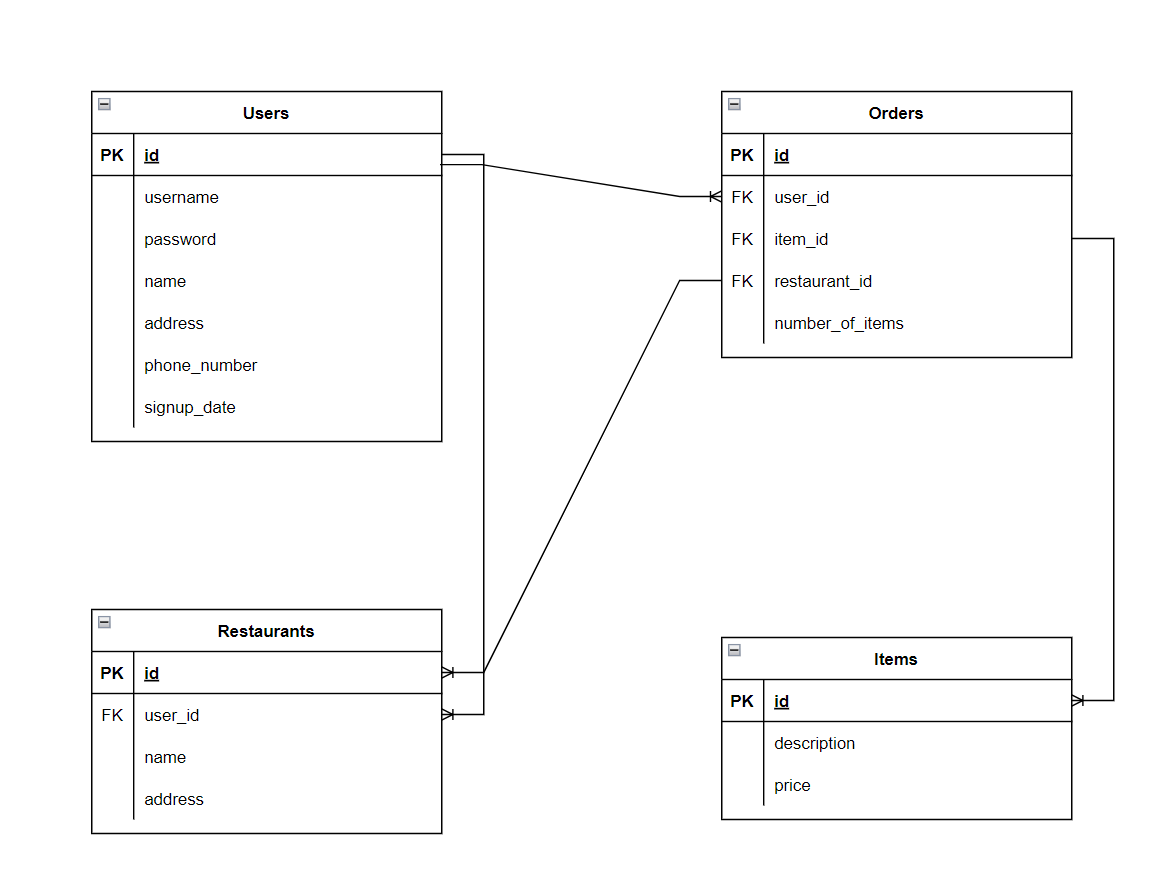
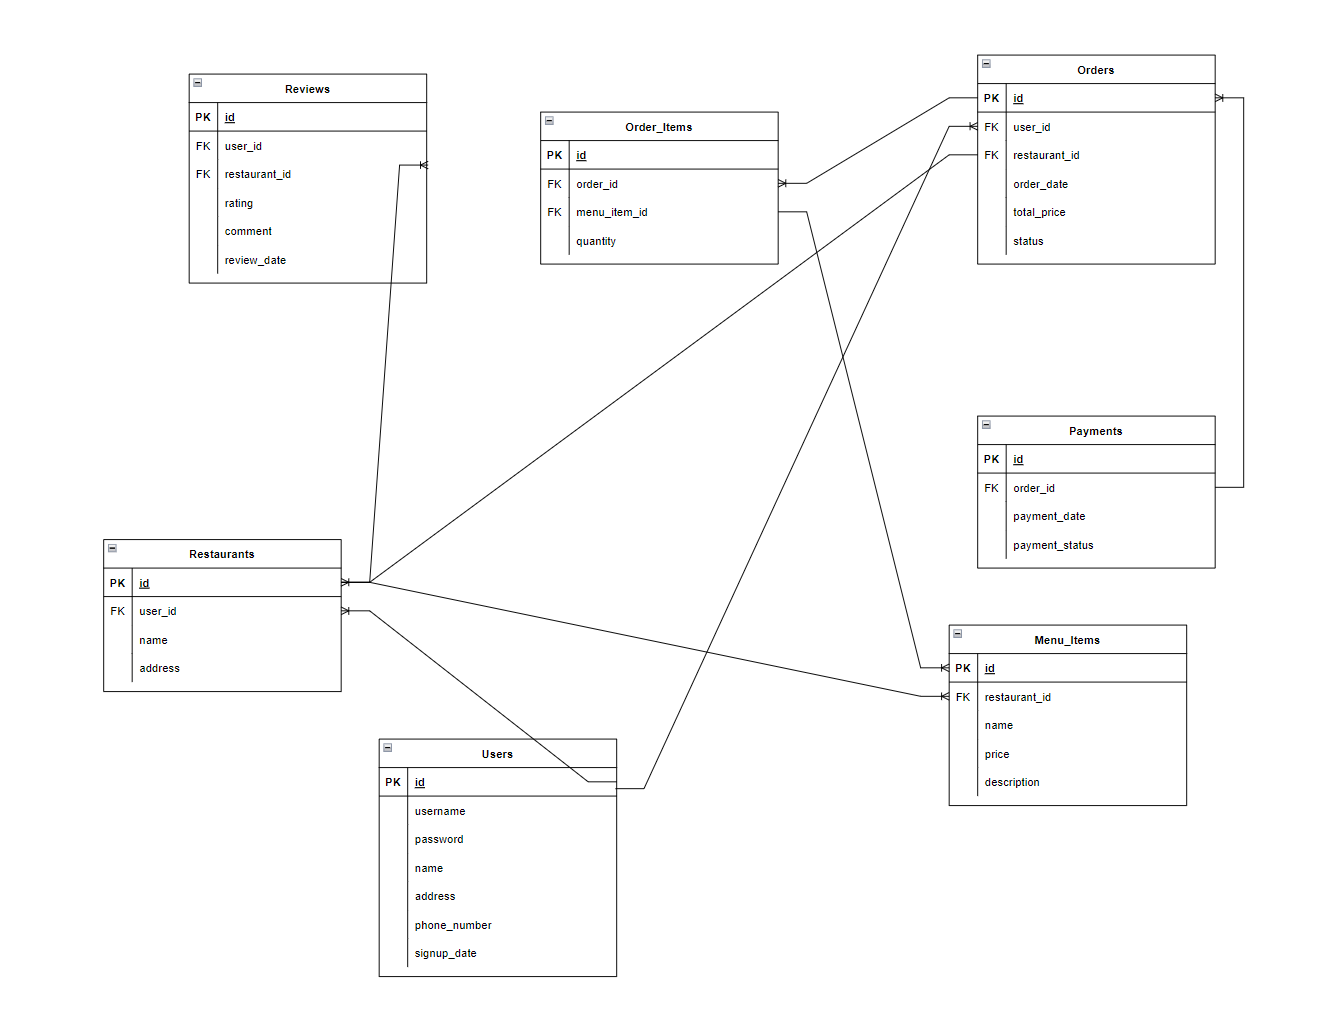
Updated ERD

diff --git a/nodeskeleton.md b/nodeskeleton.md
@@ -67,12 +67,8 @@ Menu_Items
 - price
 - description
 
-Items
-- id
-- description
-- price
-
 ![alt text](food-ordering-app.png)
+
 ---
 
 ### Routes
